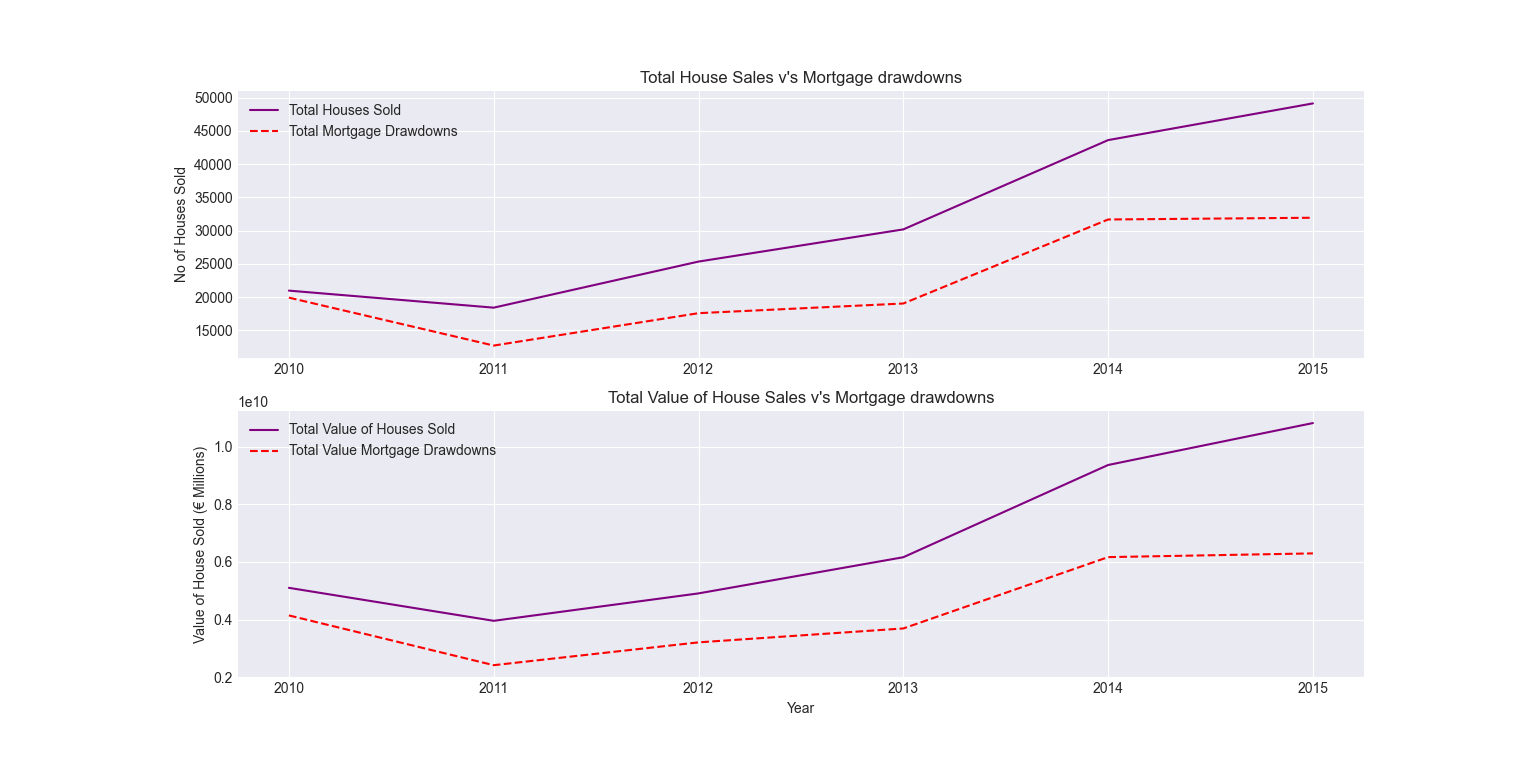
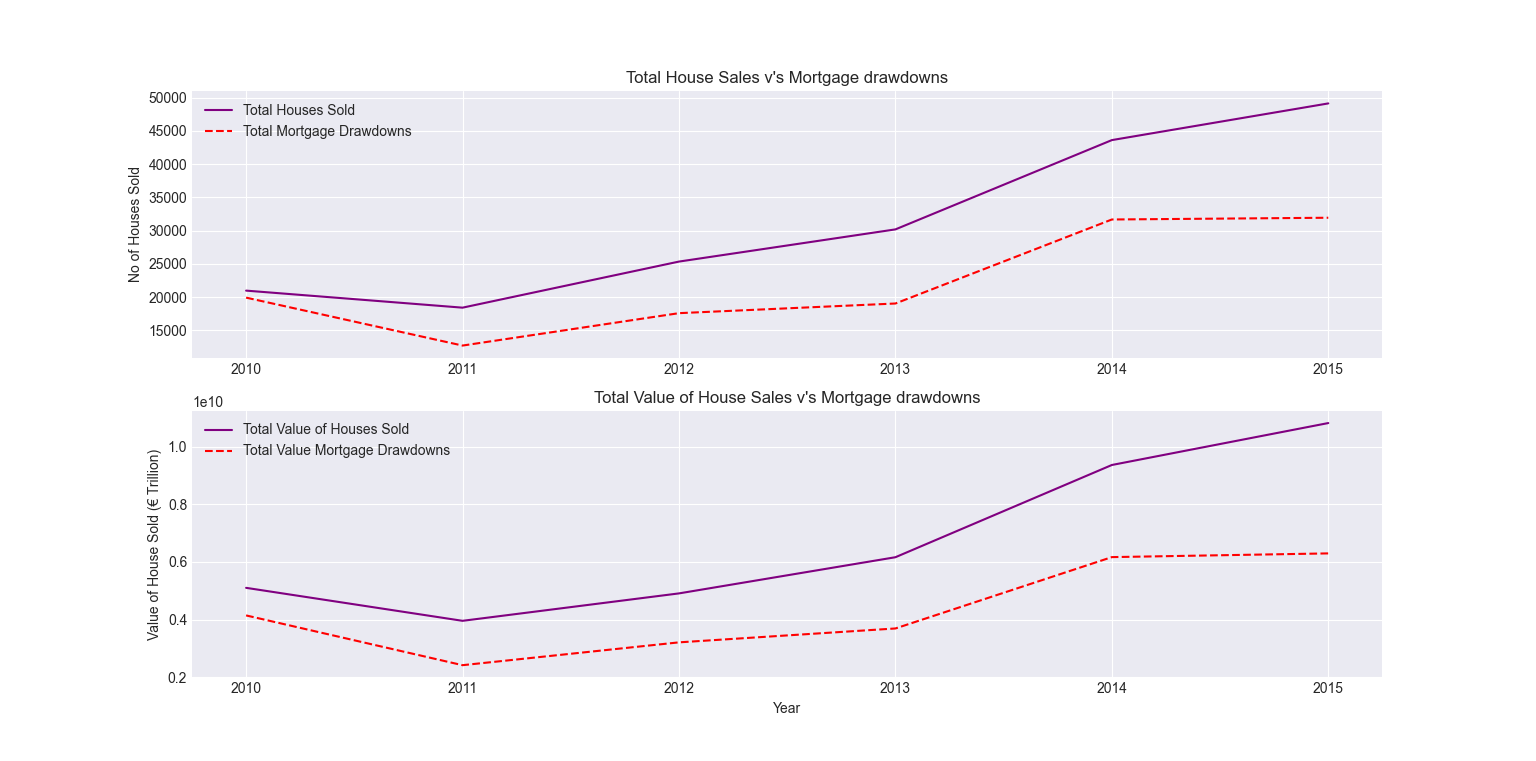
git update

diff --git a/merged_df.py b/merged_df.py
@@ -1,7 +1,7 @@
 import pandas as pd
 import matplotlib.pyplot as plt
 import numpy as np
-
+import seaborn as sns
 
 house_sales = pd.read_csv(r'C:\Users\paudi\Desktop\Data Analytics\.csv files UCD project\prop_sales_2010_2015.csv')
 bank_loans = pd.read_csv(r'C:\Users\paudi\Desktop\Data Analytics\.csv files UCD project\mtg_approvals_df.csv')
@@ -17,7 +17,6 @@ print(merged_df.head(6))
 print(merged_df.columns)
 print(merged_df.dtypes)
 
-
 # Note the value currency is recorded differently in DF1 and DF2 - need to amend DF2 Total Value column (4141.8m) to mirror DF1 Column (5.1m)
 merged_df["Total Value_bank_loans"] = merged_df["Total Value_bank_loans"]*1000000
 
@@ -28,30 +27,36 @@ y1 = np.array(merged_df["Total No._bank_loans"])
 y2 = np.array(merged_df["Total Value_house_sales"])
 y3 = np.array(merged_df["Total Value_bank_loans"])
 
-# plt.style.use('seaborn-darkgrid')
-# fig, (ax, ax1) = plt.subplots(2, 1)
-# axs = (ax, ax1)
+plt.style.use('seaborn-darkgrid')
+fig, (ax, ax1) = plt.subplots(2, 1)
+axs = (ax, ax1)
 
-# ax.plot(x, y0, color='purple', label="Total Houses Sold", linestyle='solid')
-# ax.plot(x, y1, color="red", label="Total Mortgage Drawdowns", linestyle='dashed')
-# ax1.plot(x, y2, color='purple', label="Total Value of Houses Sold", linestyle='solid')
-# ax1.plot(x, y3, color="red", label="Total Value Mortgage Drawdowns", linestyle='dashed')
+ax.plot(x, y0, color='purple', label="Total Houses Sold", linestyle='solid')
+ax.plot(x, y1, color="red", label="Total Mortgage Drawdowns", linestyle='dashed')
+ax1.plot(x, y2, color='purple', label="Total Value of Houses Sold", linestyle='solid')
+ax1.plot(x, y3, color="red", label="Total Value Mortgage Drawdowns", linestyle='dashed')
 
-# ax.set(ylabel='No of Houses Sold')
-# ax1.set(xlabel='Year', ylabel="Value of House Sold (€ Millions)")
-# ax.set_title("Total House Sales v's Mortgage drawdowns")
-# ax1.set_title("Total Value of House Sales v's Mortgage drawdowns")
-# ax.legend()
-# ax1.legend()
-# plt.show()
+ax.set(ylabel='No of Houses Sold')
+ax1.set(xlabel='Year', ylabel="Value of House Sold (€ Trillion)")
+ax.set_title("Total House Sales v's Mortgage drawdowns")
+ax1.set_title("Total Value of House Sales v's Mortgage drawdowns")
+ax.legend()
+ax1.legend()
+plt.show()
 
 # Inserting Percentage information of mortgage over Total sales/transactions.
 merged_df["Mortgage Value %"] = merged_df["Total Value_bank_loans"]/merged_df["Total Value_house_sales"]
 merged_df["No of Mortgage %"] = merged_df["Total No._bank_loans"]/merged_df["Total No._house_sales"]
 merged_df["Mortgage Value %"] = merged_df["Mortgage Value %"].map("{:.2%}".format)
 merged_df["No of Mortgage %"] = merged_df["No of Mortgage %"].map("{:.2%}".format)
-print(merged_df.head())
-
-
-# merged_df["Total Value_house_sales"].plot.pie(autopct="%.1f%%")
-# plt.show()
+merged_df["Cash Buyer Value"] = merged_df["Total Value_house_sales"].sub(merged_df["Total Value_bank_loans"], axis=0)
+merged_df["No of Cash Buyers"] = merged_df["Total No._house_sales"].sub(merged_df["Total No._bank_loans"], axis=0)
+print(merged_df["Cash Buyer Value"]) # note due to decimal calculation differences - need to manually update df.loc[8]
+print(merged_df.head(6))
+print(merged_df.columns)
+from decimal import Decimal
+a = Decimal('5.098487933') # '5098487933.67001'
+b = Decimal('4.141800000') # 141800000.00
+print(a - b)# Correct answer €956,687,933.67001
+merged_df.loc[8] = a-b
+print(merged_df.head(6))
